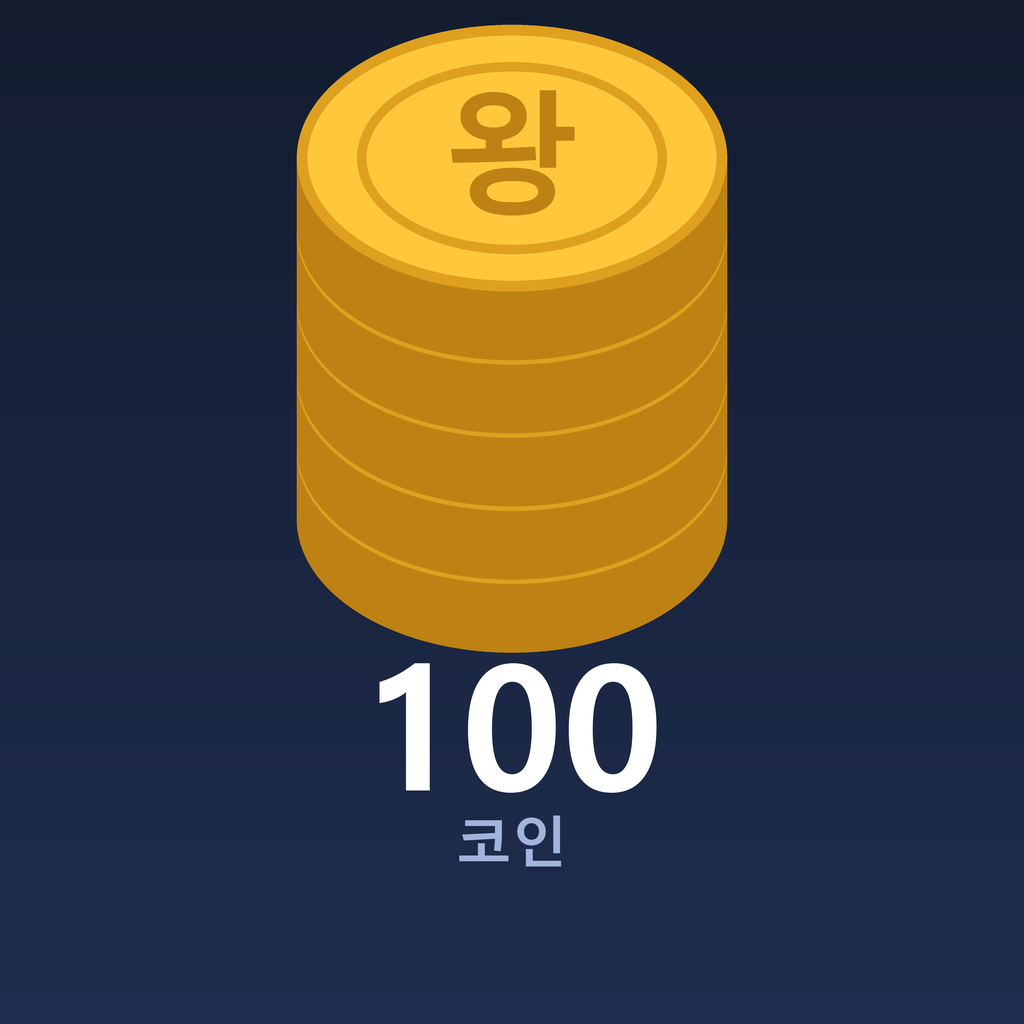
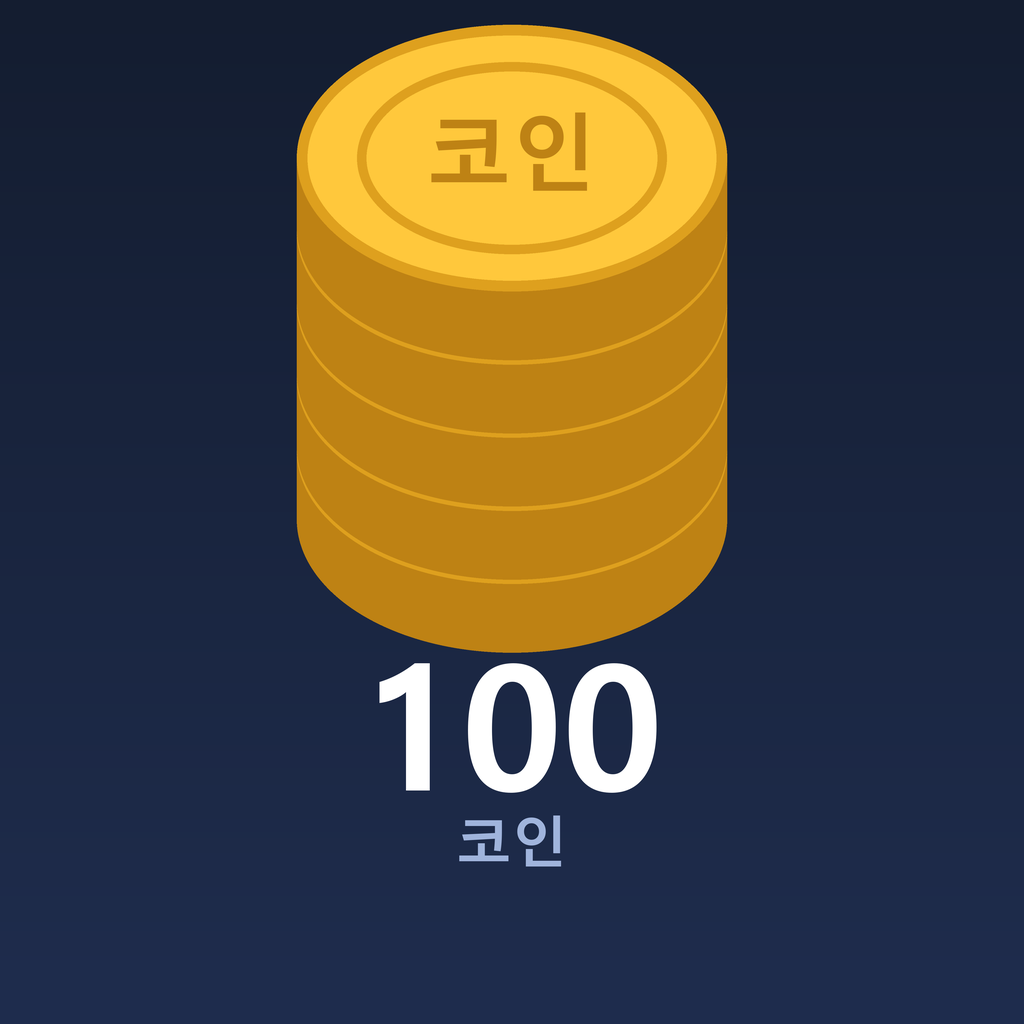
chore: IAP 코인 이미지 각인 '왕' → '코인'

Changed region(s): [[0.4062, 0.0625, 0.5938, 0.2188]]

diff --git a/scripts/make_iap_images.py b/scripts/make_iap_images.py
@@ -53,10 +53,10 @@ def make(count, stack):
     for i in range(stack):
         draw_coin(d, cx, base_y - i * step, r)
 
-    # 맨 위 코인에 '왕' 각인
+    # 맨 위 코인에 '코인' 각인
     top_y = base_y - (stack - 1) * step
-    f_stamp = ImageFont.truetype(FONT, int(r * 0.62))
-    d.text((cx, top_y - r * 0.62 * 0.08), "왕", font=f_stamp, fill=GOLD_EDGE, anchor="mm")
+    f_stamp = ImageFont.truetype(FONT, int(r * 0.40))
+    d.text((cx, top_y - r * 0.40 * 0.10), "코인", font=f_stamp, fill=GOLD_EDGE, anchor="mm")
 
     # 개수 텍스트
     f_num = ImageFont.truetype(FONT, int(W * 0.17))